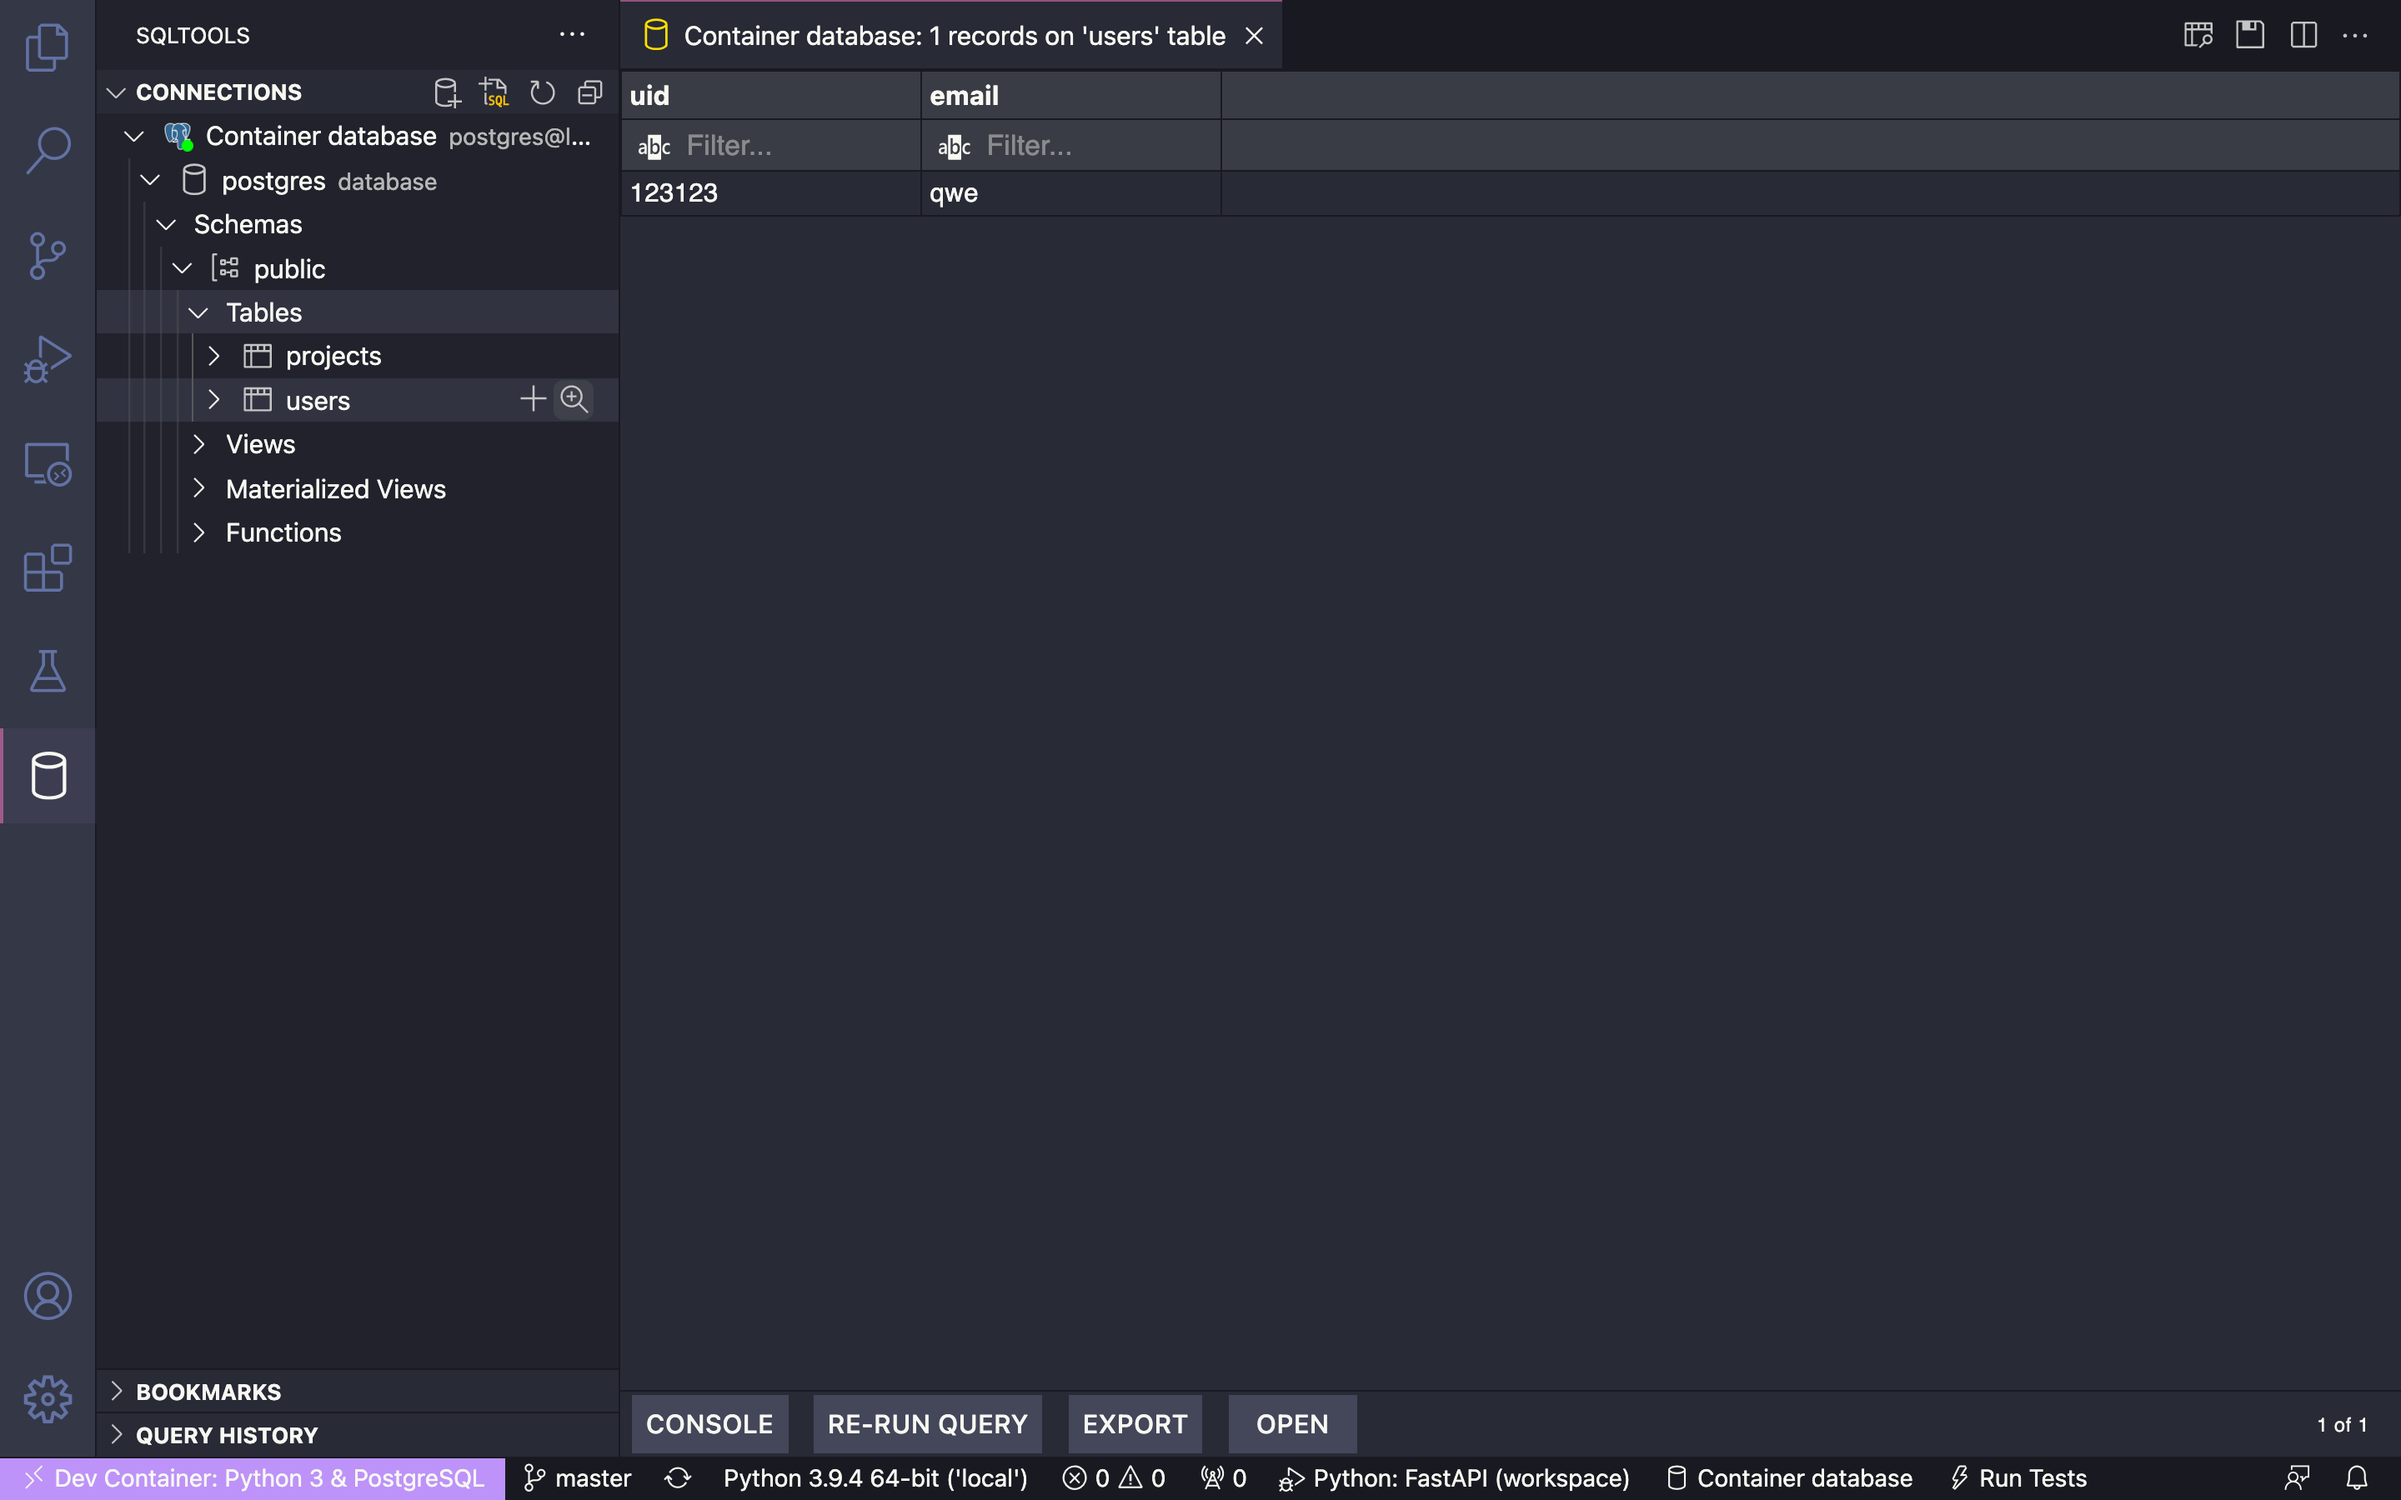
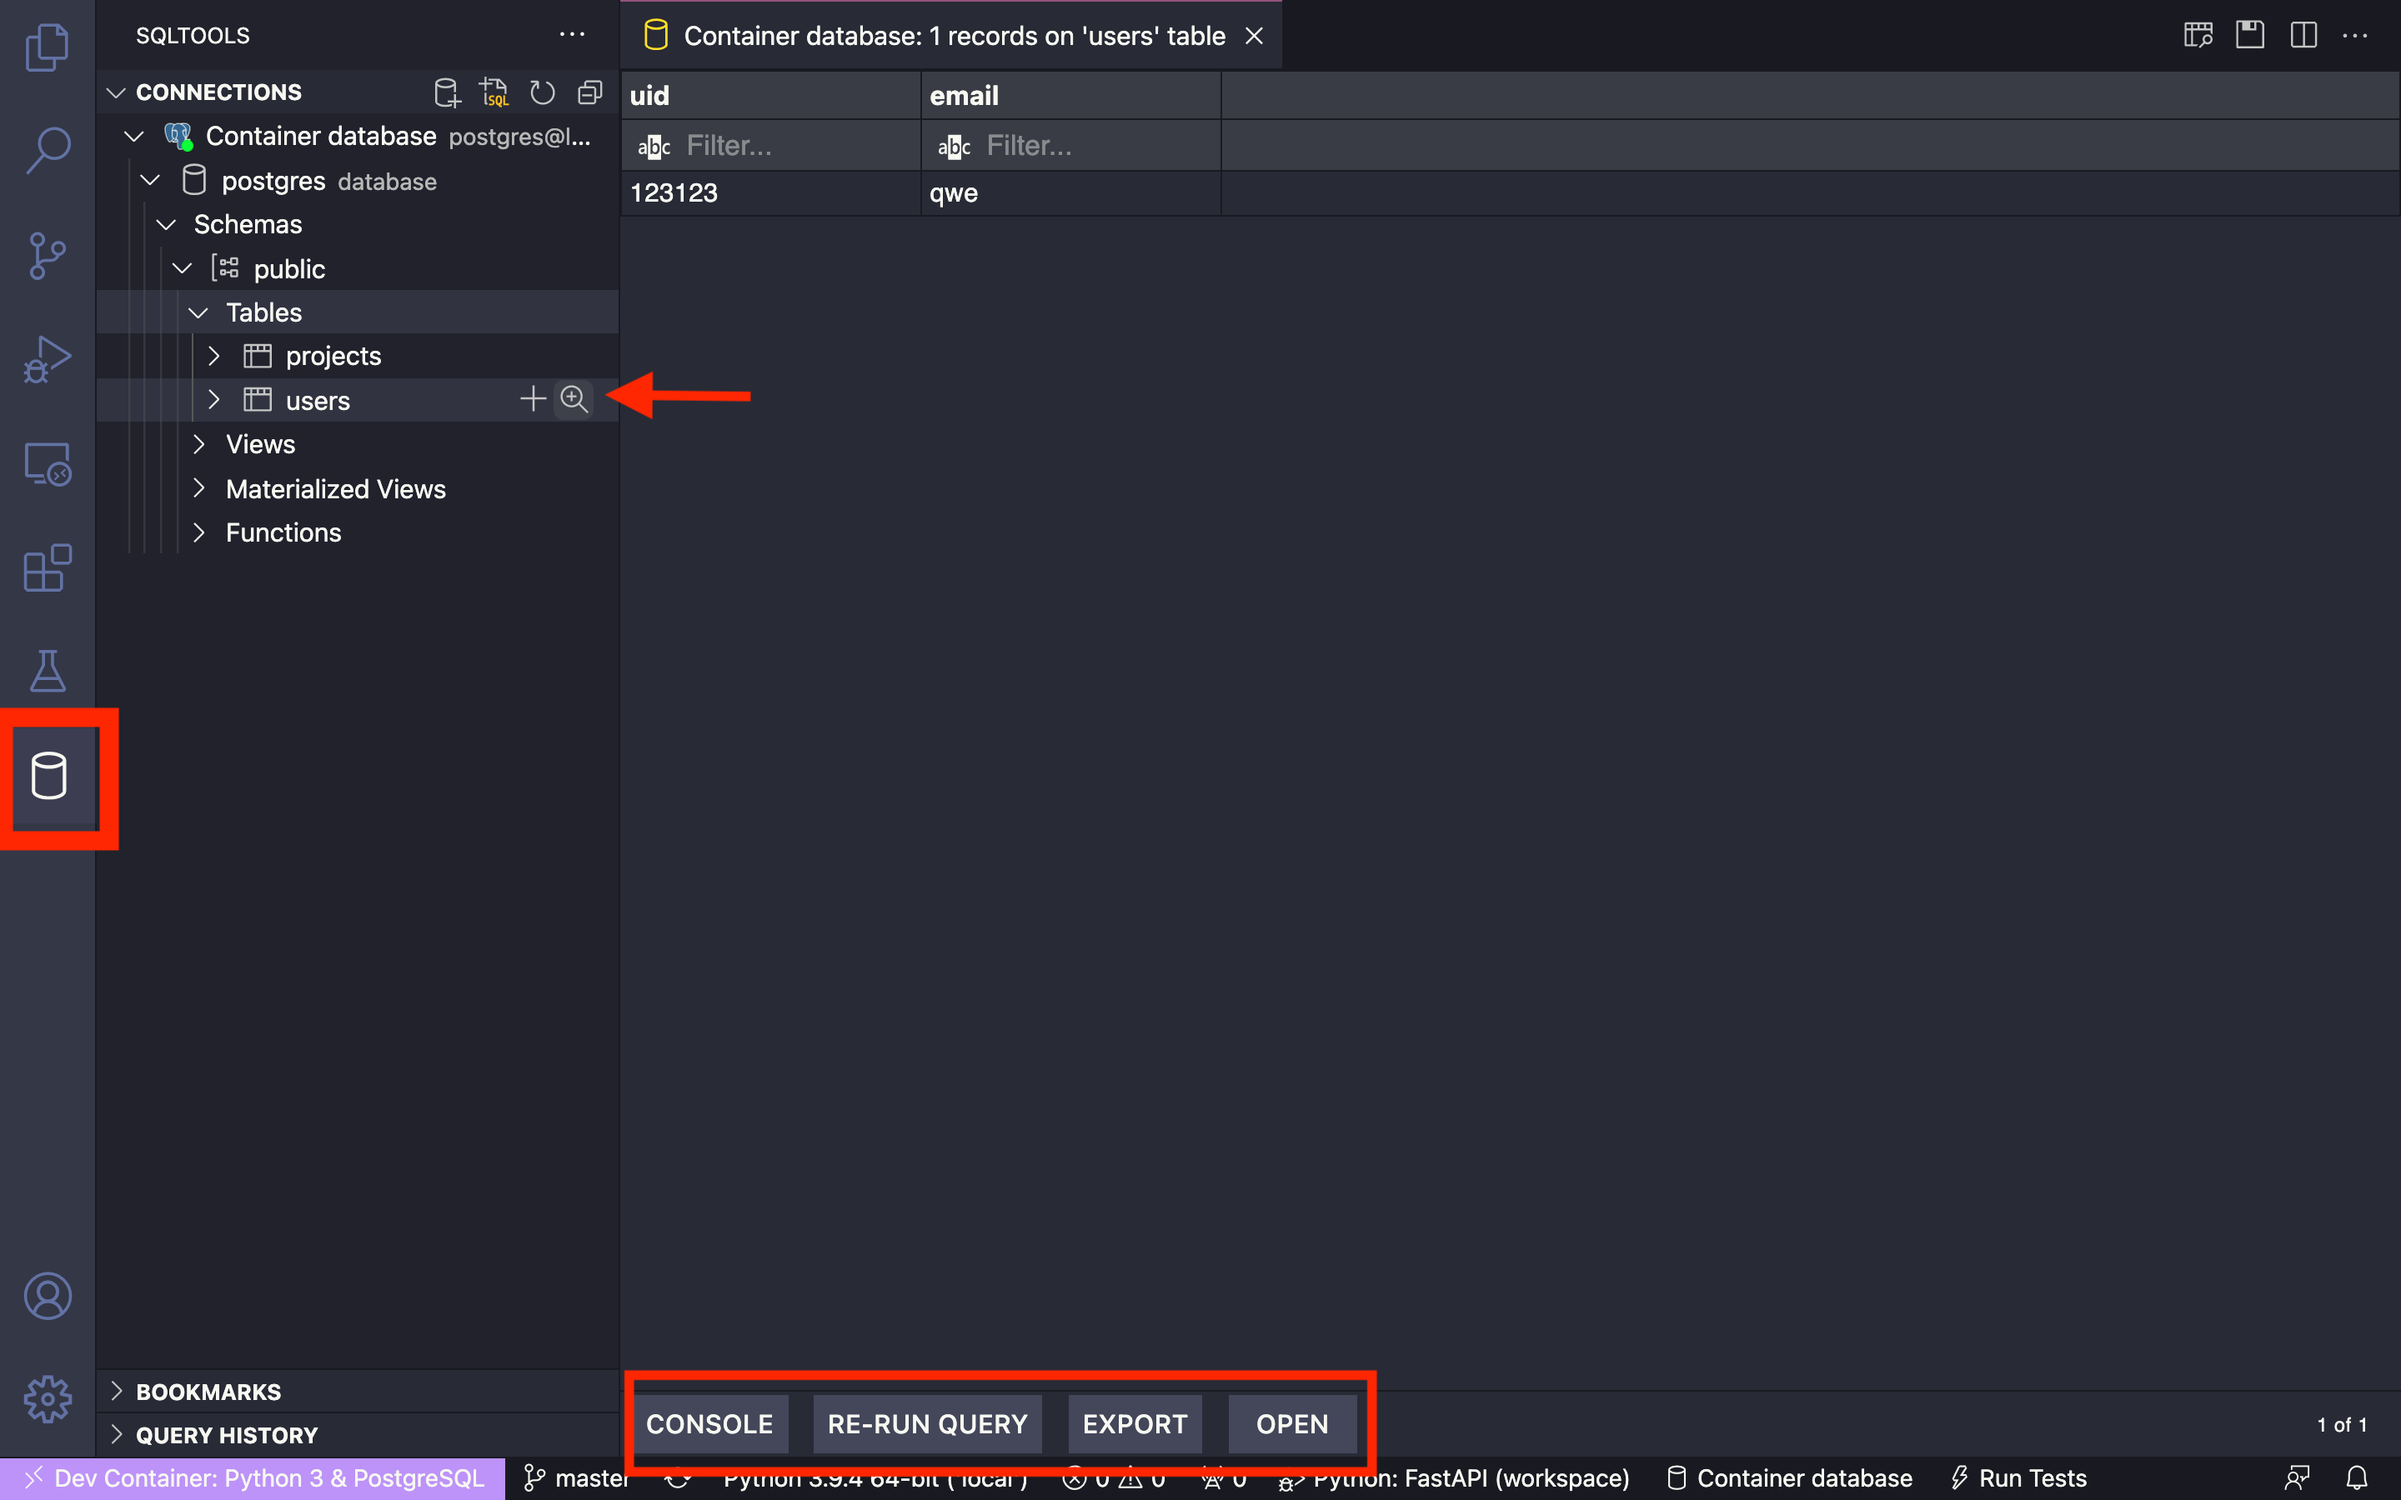
🚀 deploy blog resource

Changed region(s): [[0.25, 0.9022, 0.5938, 0.9956], [0.0, 0.4667, 0.0625, 0.5911], [0.25, 0.2489, 0.3125, 0.28]]

diff --git a/source/_drafts/fastapi-dev-in-container-vscode.md b/source/_drafts/fastapi-dev-in-container-vscode.md
@@ -68,4 +68,26 @@ tags:
 進來之後就要來啟動專案，按下畫面上執行的按鈕，而這個按鈕則會在 `.vscode` 中建立 `launch.json` 來幫忙放相關設定檔，裡頭就是設定要跑的相關指令。
 ![launch](https://nijialin.com/images/2021/fastapi-container/launch1.png)
 
+執行之後會在下方出現終端機來顯示跑起來的訊息，相關 call API 的測試結果當然也都會在這邊。
+![launch2](https://nijialin.com/images/2021/fastapi-container/launch2.png)
+
+執行完後大概果幾秒後，右下角會出現視窗來詢問你說要不要在`瀏覽器上開啟` 的彈跳視窗，按下去後 VSCode 就會幫忙把相對應的 Port 全部對外，讓大家可以無痛在本地端(127.0.0.1)直接 call API
+
+解決了：
+
+- 不用找 Docker IP 為了呼叫容器裡的服務
+- 跟在電腦(本地端)開發狀態一樣，而多了不會`污染環境`的好處
+
+![port](https://nijialin.com/images/2021/fastapi-container/port.png)
+
+跟許多開發工具一樣，要 Debug 時就在行數的`左邊`點上`紅點`，打一次訊息到 API 後就會在想除錯的那行中停下來，左邊訊息欄就會顯示當前相關參數喔。
+
+> 下方有兩個顏色，`紫色`是當前正在的處於的環境(Container)，紅色則是告訴你現在`服務啟動`了，等關閉終端機時就會變回一般的顏色囉。
+
+![debug](https://nijialin.com/images/2021/fastapi-container/debug1.png)
+
+這邊看資料庫解決了筆者開發的一個小痛點，左邊欄支援直接看資料庫，可以快速查詢相關開發的資料是否正確，透過介面上的內容大致可以解決許多開發上會遇到的問題。(當然其他工具(pgadmin)還是有他好用的地方)
+
+![sql1](https://nijialin.com/images/2021/fastapi-container/sql1.png)
+
 # 結論
